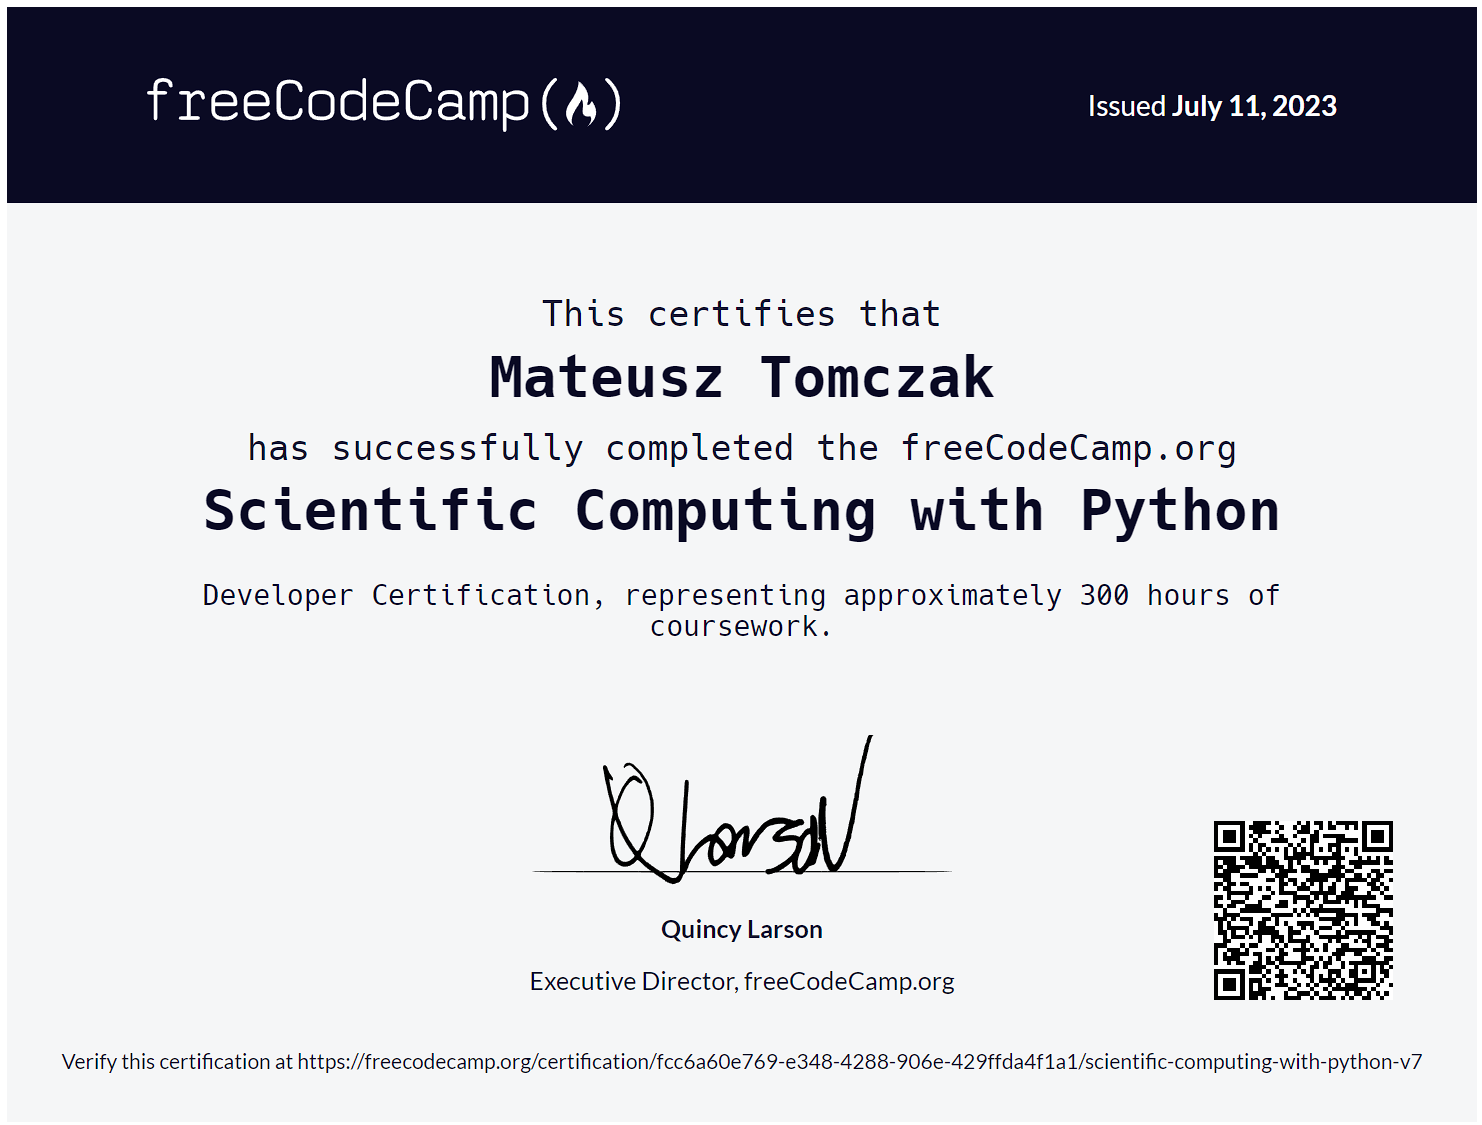
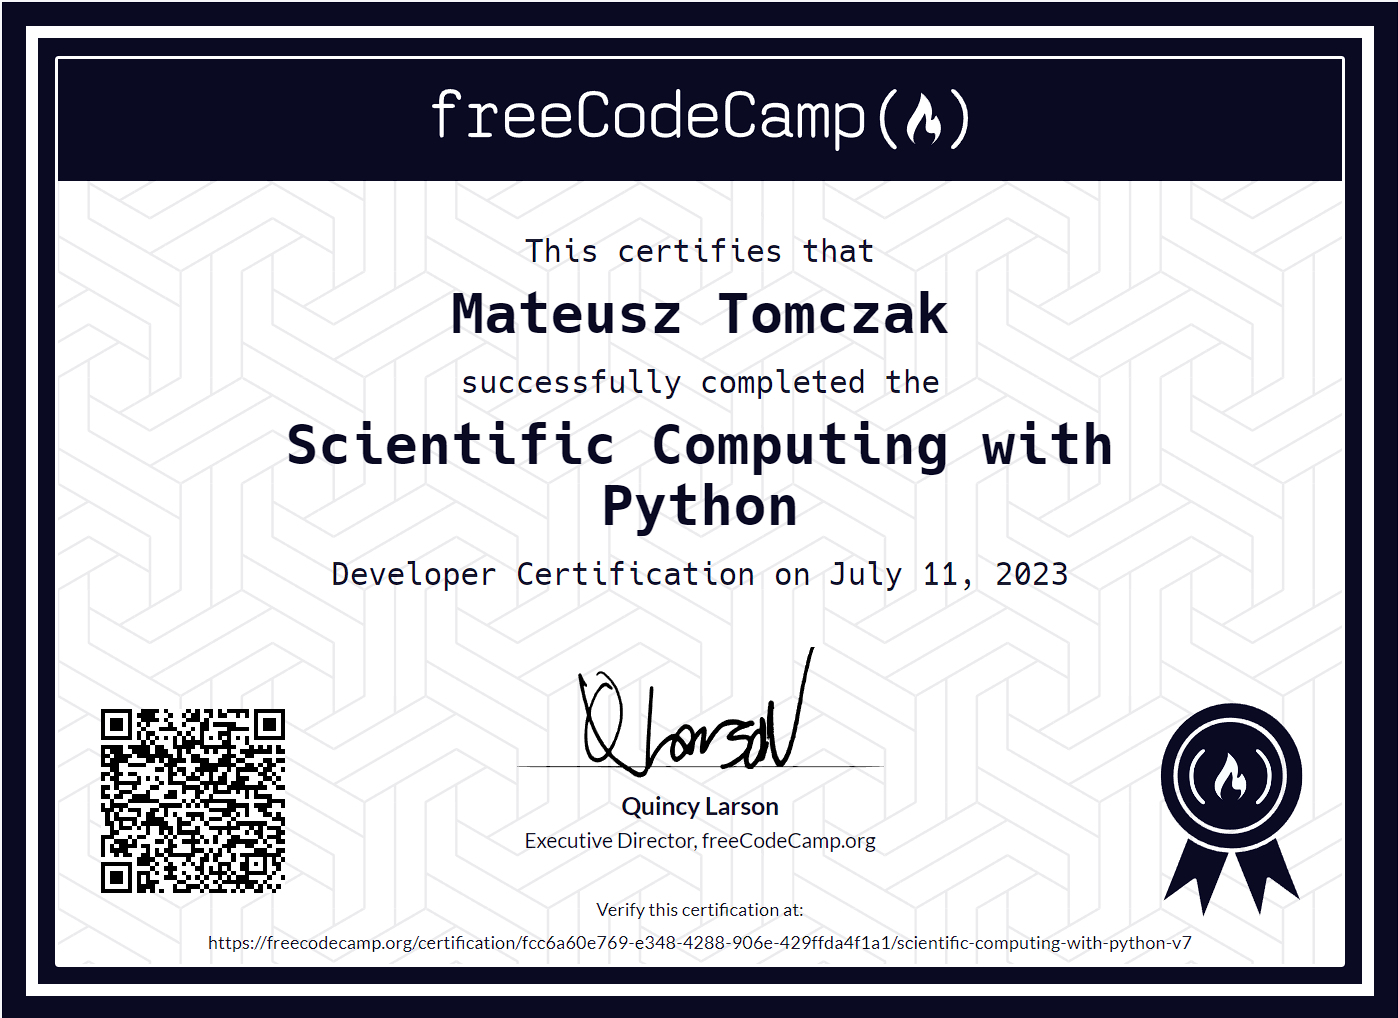
Added new certification, changed certification photo

Changed region(s): [[0.0, 0.0, 1.0, 1.0], [0.123, 0.2132, 0.8612, 0.5786]]

diff --git a/index.html b/index.html
@@ -188,7 +188,18 @@
             </div>
             <div class="certificate">
                 <a class="image-btn" href="https://www.freecodecamp.org/certification/fcc6a60e769-e348-4288-906e-429ffda4f1a1/scientific-computing-with-python-v7" target="_blank">
-                    <img class="certificate-img" src="certifications/scientific_computing.png" alt="Digital Economy certificate">
+                    <img class="certificate-img" src="certifications/scientific_computing.png" alt="Scientific Computing with Python certificate">
+                </a>
+            </div>
+        </div>
+        <div class="grid cert-grid">
+            <div class="aside cert-aside">
+                <h5 class="cert-title">Data Analysis with Python</h5>
+                <p class="cert-institution">freeCodeCamp</p>
+            </div>
+            <div class="certificate">
+                <a class="image-btn" href="https://www.freecodecamp.org/certification/fcc6a60e769-e348-4288-906e-429ffda4f1a1/data-analysis-with-python-v7" target="_blank">
+                    <img class="certificate-img" src="certifications/data_analysis_with_python.png" alt="Data Analysis with Python certificate">
                 </a>
             </div>
         </div>
